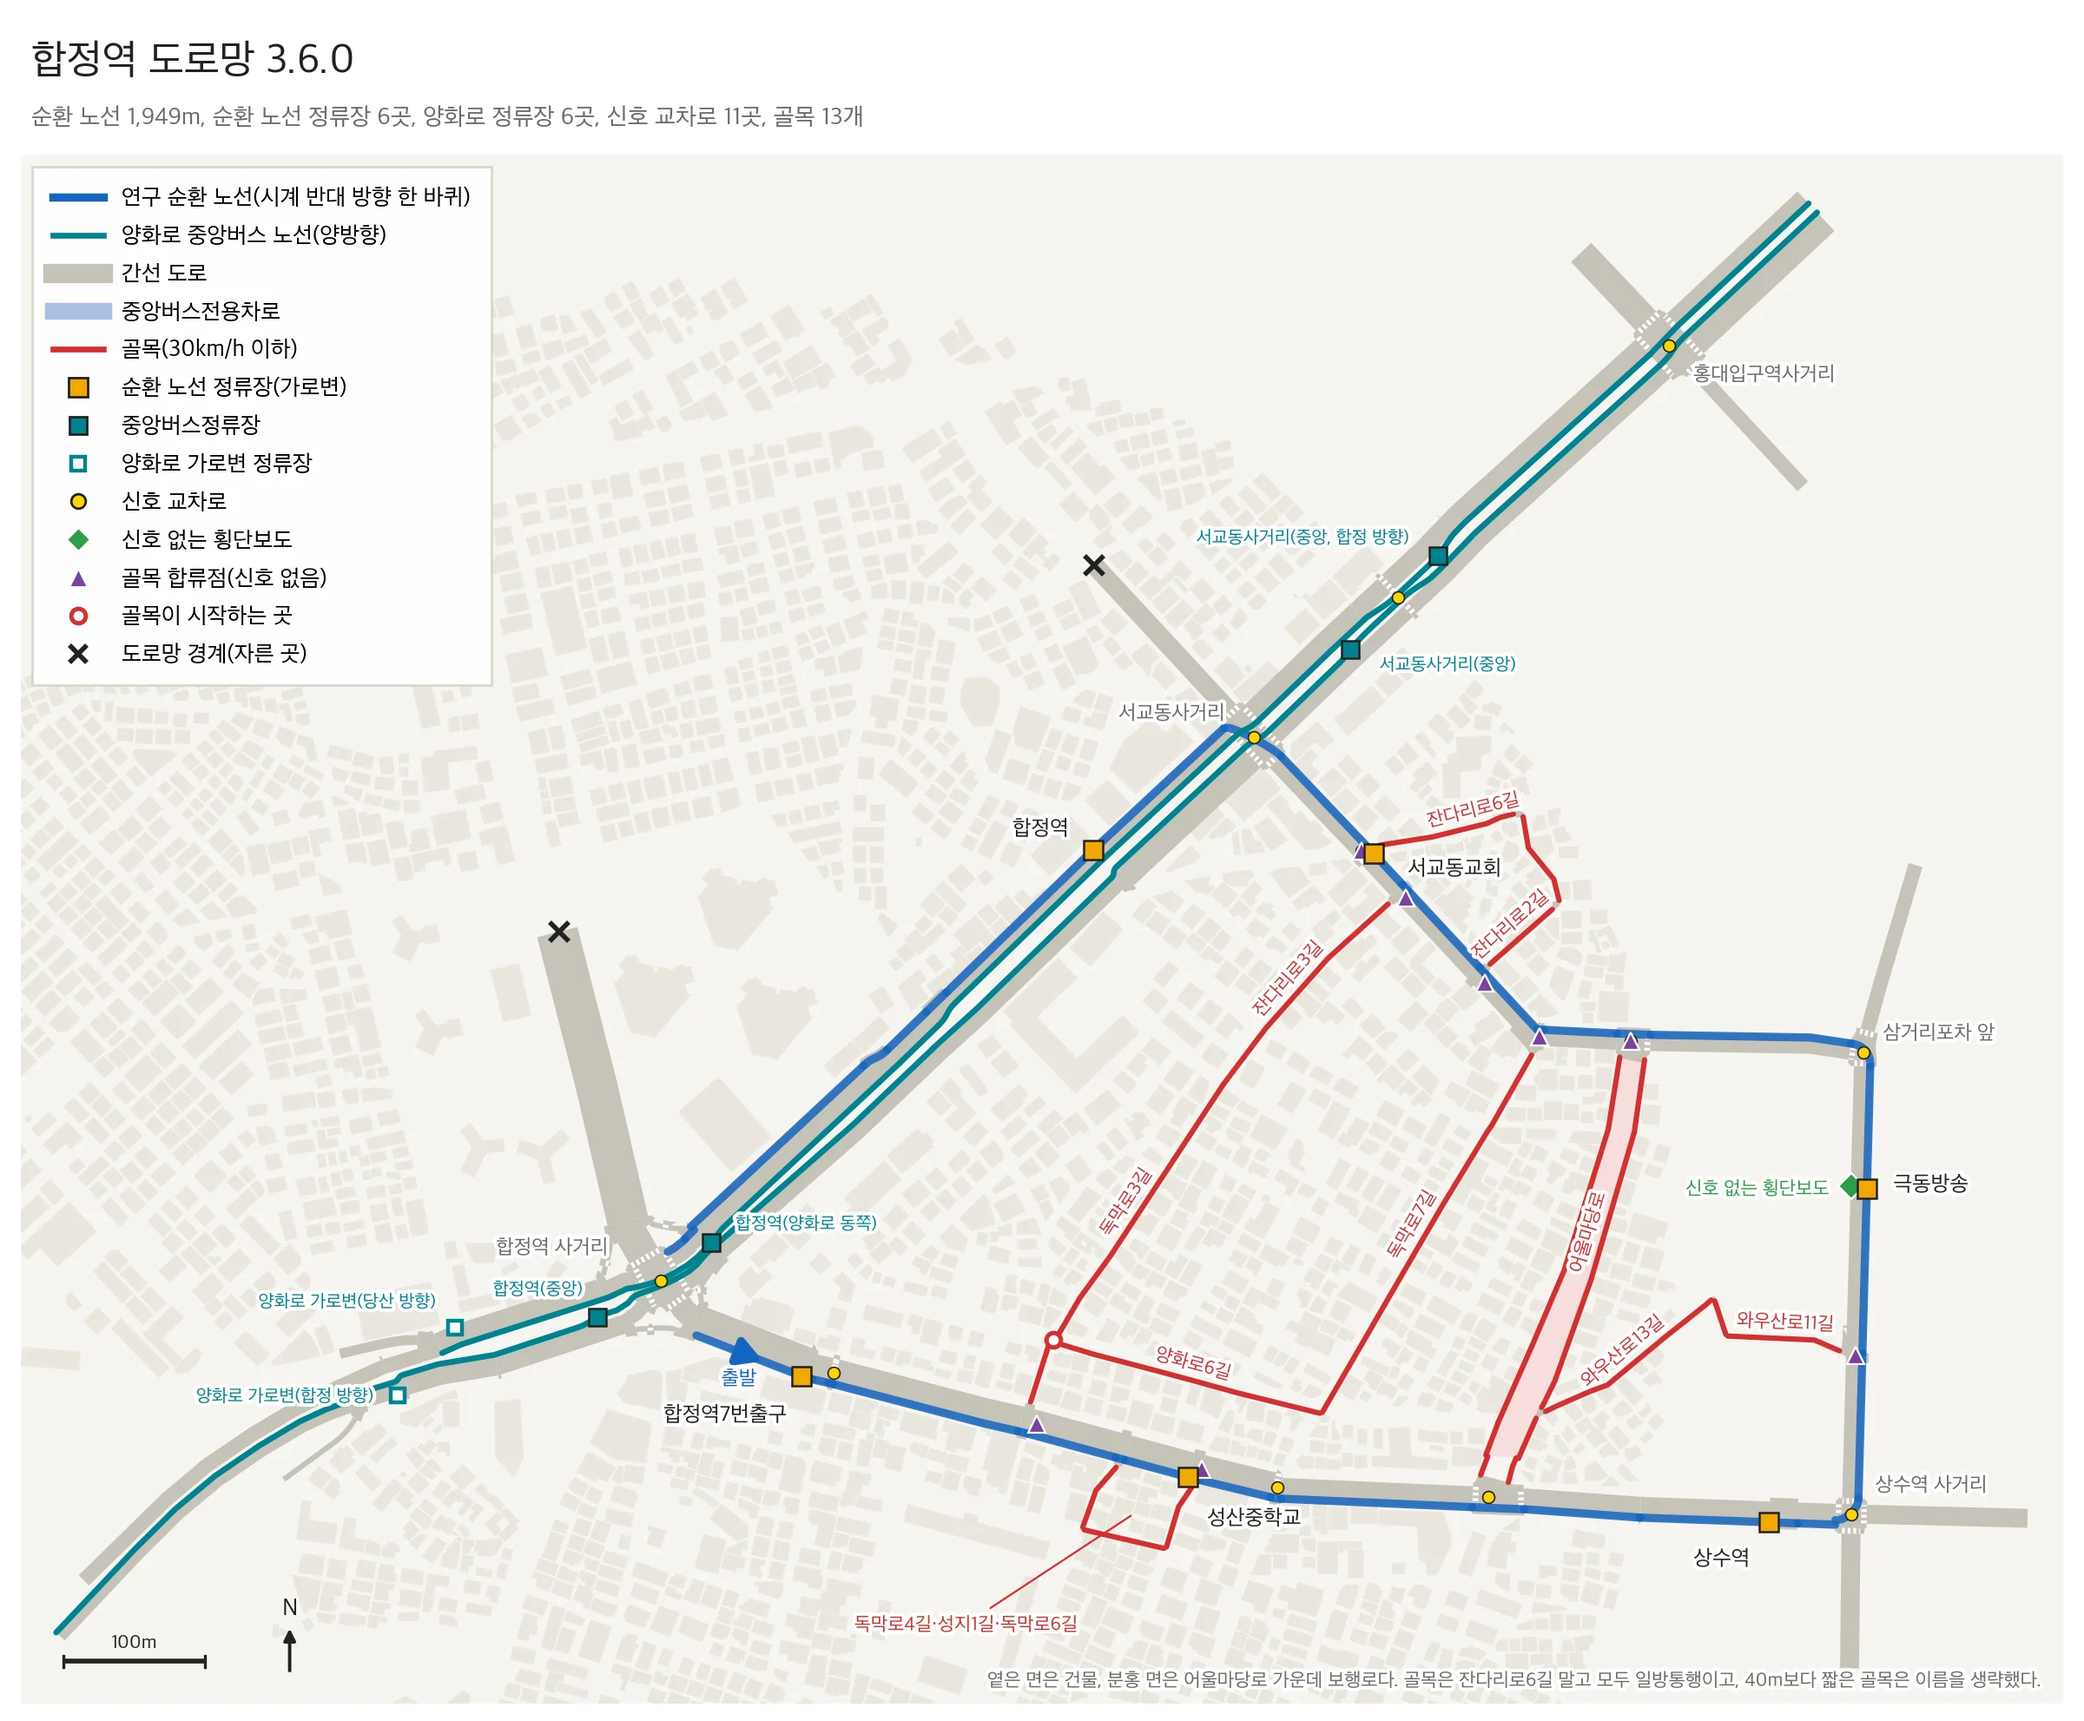
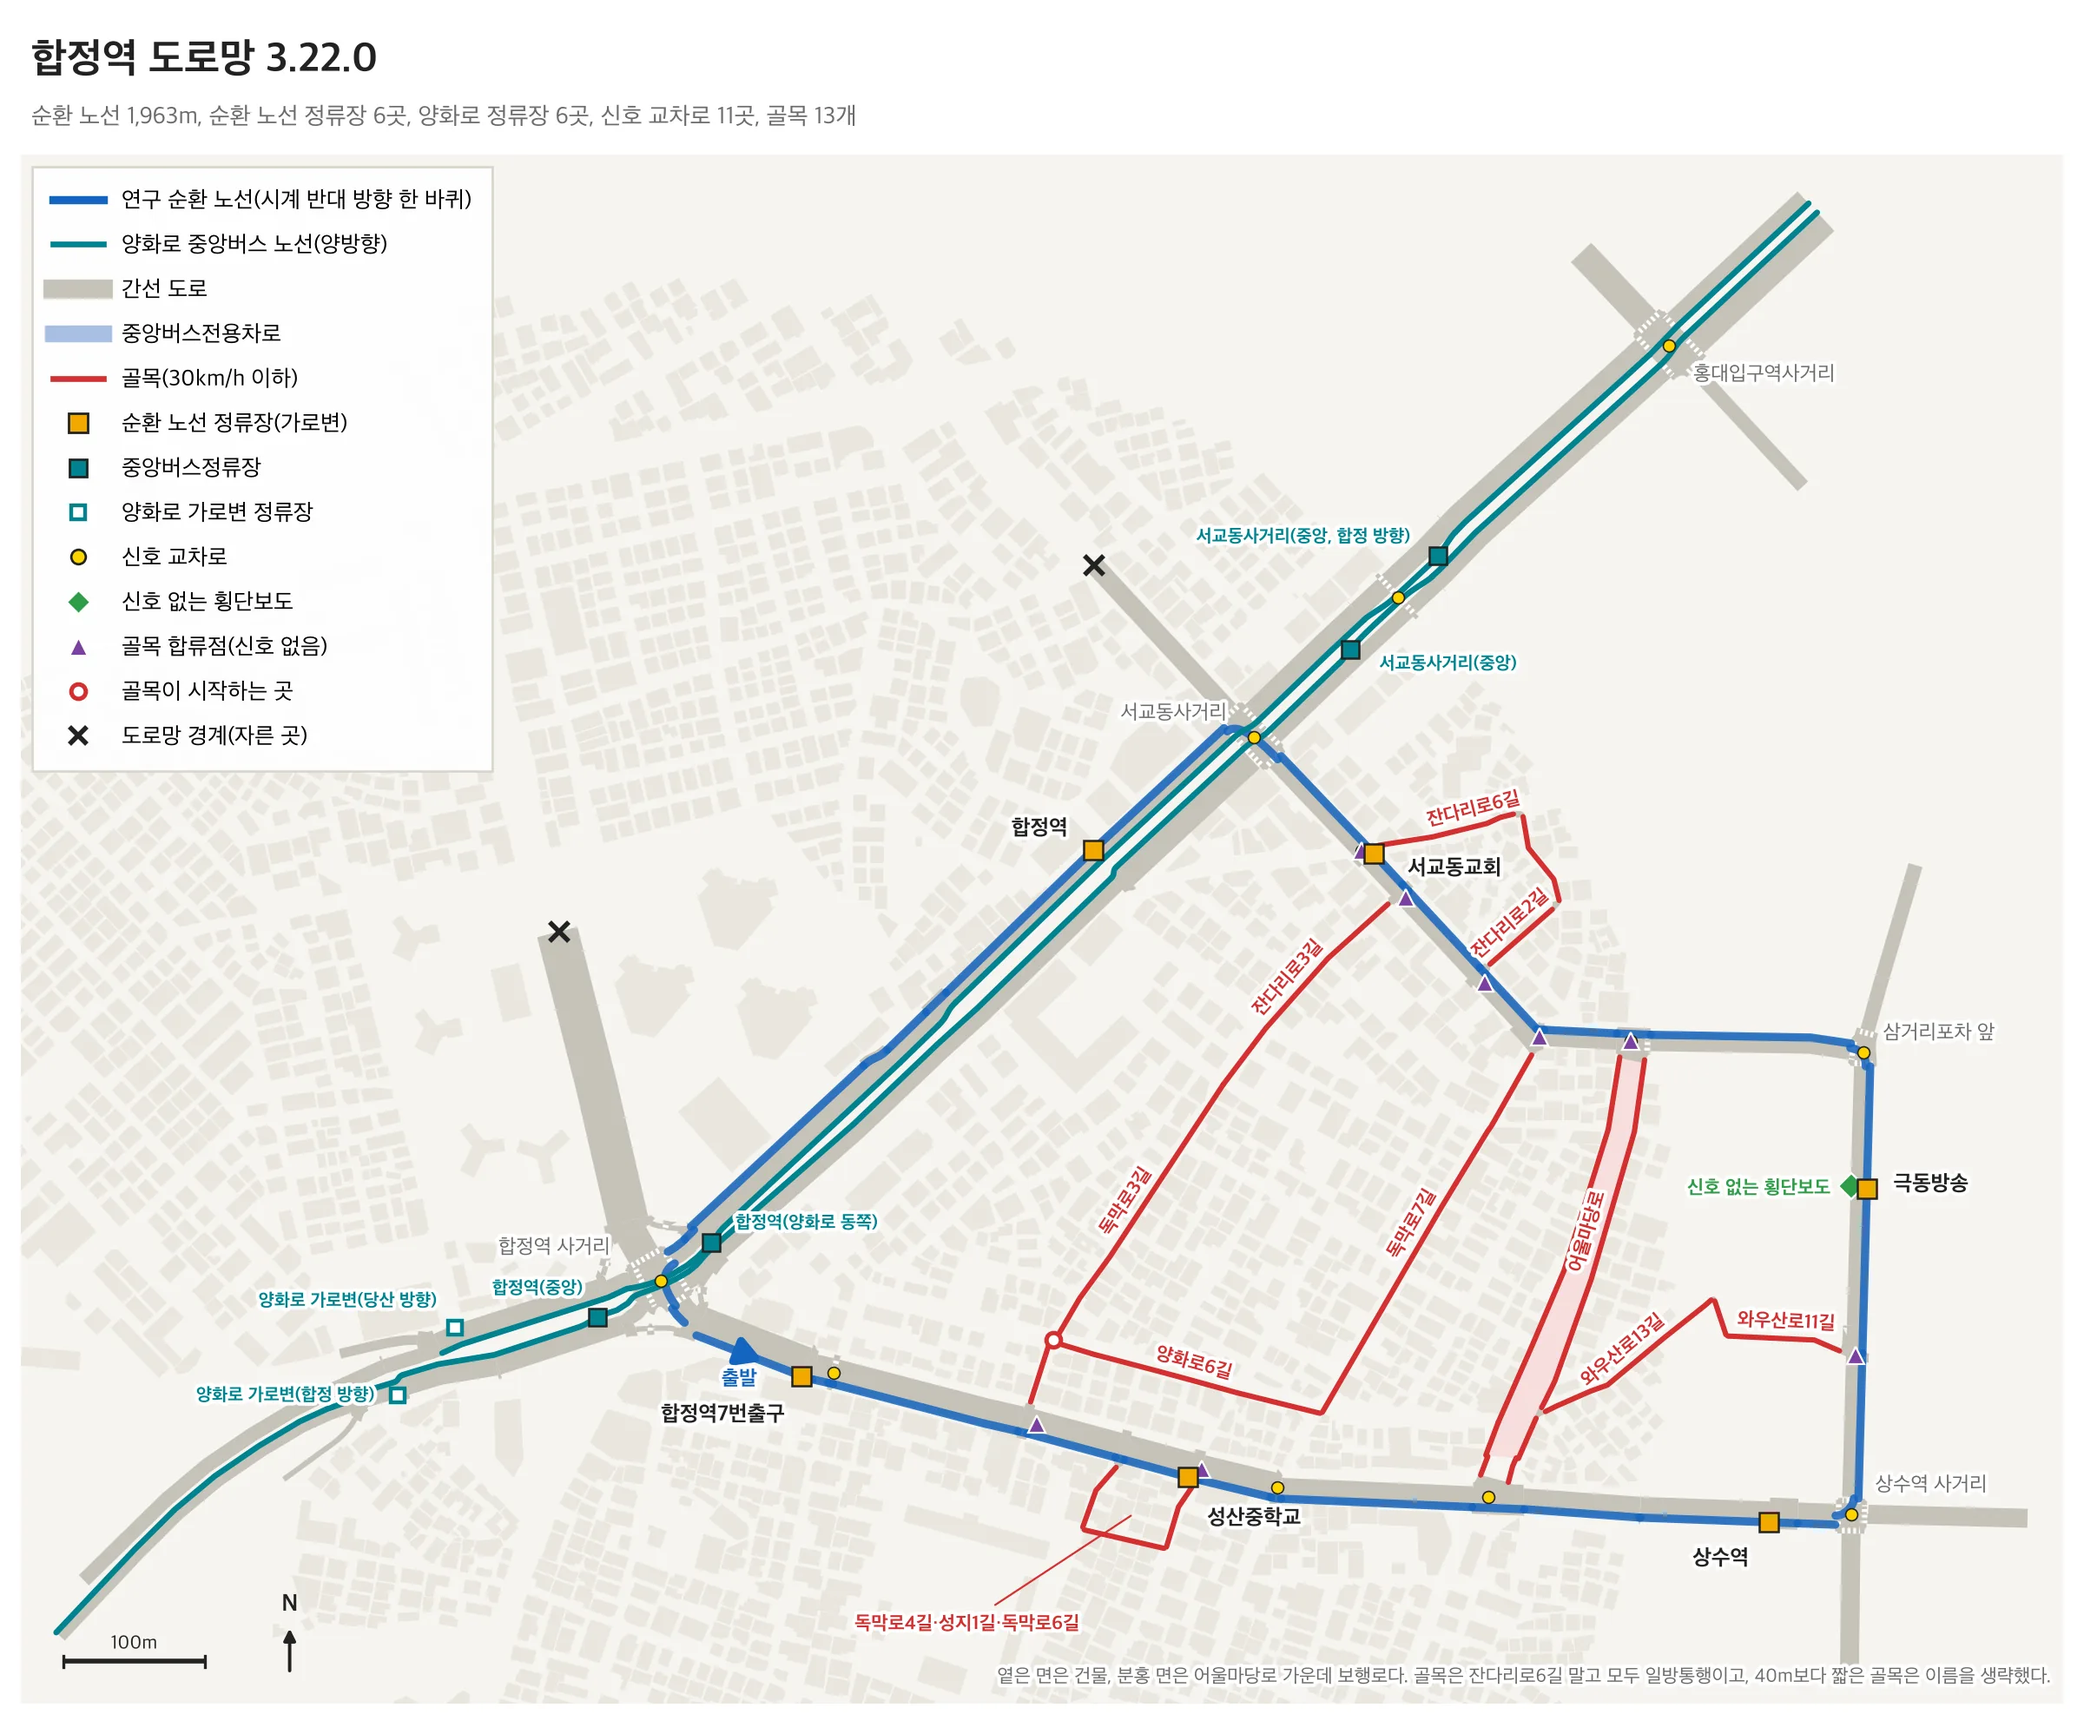
docs(web): 도로망 지도를 3.22.0으로 다시 그리기
웹페이지 그림 2가 골목을 살린 때(3.6.0, 1,949m)의 지도라 본문
숫자와 어긋났다. scripts/render_map.py로 지금 도로망을 다시 그리고,
노선 위 정류장 6곳 중 버스가 4곳에 선다고 설명에 적는다.

diff --git a/web_page/index.html b/web_page/index.html
@@ -327,7 +327,7 @@
       <p>상수역 사거리, 삼거리포차 앞, 서교동사거리, 합정역 사거리의 좌회전은 가장 왼쪽 차로에서만 할 수 있어서, 버스는 합정역 사거리 앞에서 167m 안에 세 차로를 건넌다.</p>
       <figure>
         <a class="figure-link" href="assets/hapjeong_map.webp"><img src="assets/hapjeong_map.webp" width="2400" height="1982" alt="합정역 도로망. 파란 선은 연구 버스 순환 경로, 빨간 선은 골목, 청록 선은 양화로 중앙버스 노선이다." loading="lazy" decoding="async" /></a>
-        <figcaption class="caption"><strong>그림 2. 합정역 도로망과 골목</strong>파란 선은 버스가 시계 반대 방향으로 도는 경로, 빨간 선은 골목, 보라 세모는 골목 합류점, 노란 네모는 정류장이다.</figcaption>
+        <figcaption class="caption"><strong>그림 2. 합정역 도로망과 골목</strong>도로망 3.22.0이다. 파란 선은 버스가 시계 반대 방향으로 도는 경로, 빨간 선은 골목, 보라 세모는 골목 합류점, 노란 네모는 노선 위 정류장 6곳이며 버스는 그중 4곳에 선다.</figcaption>
       </figure>
       <h3>실제 골목 여덟 묶음</h3>
       <p>골목이 없으면 끼어드는 차도 없어서 버스 경로 안쪽의 실제 골목 여덟 묶음을 살렸고, 아래 수치는 그때 규칙 버스로 160바퀴를 돌아 잰 값이다.</p>
